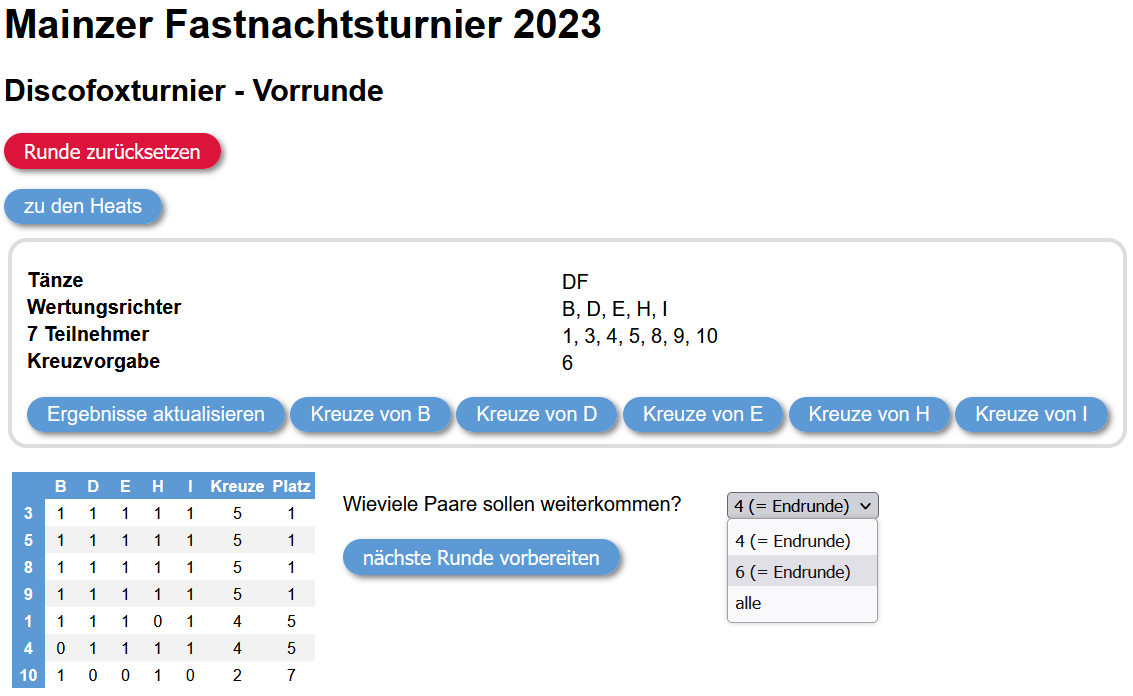
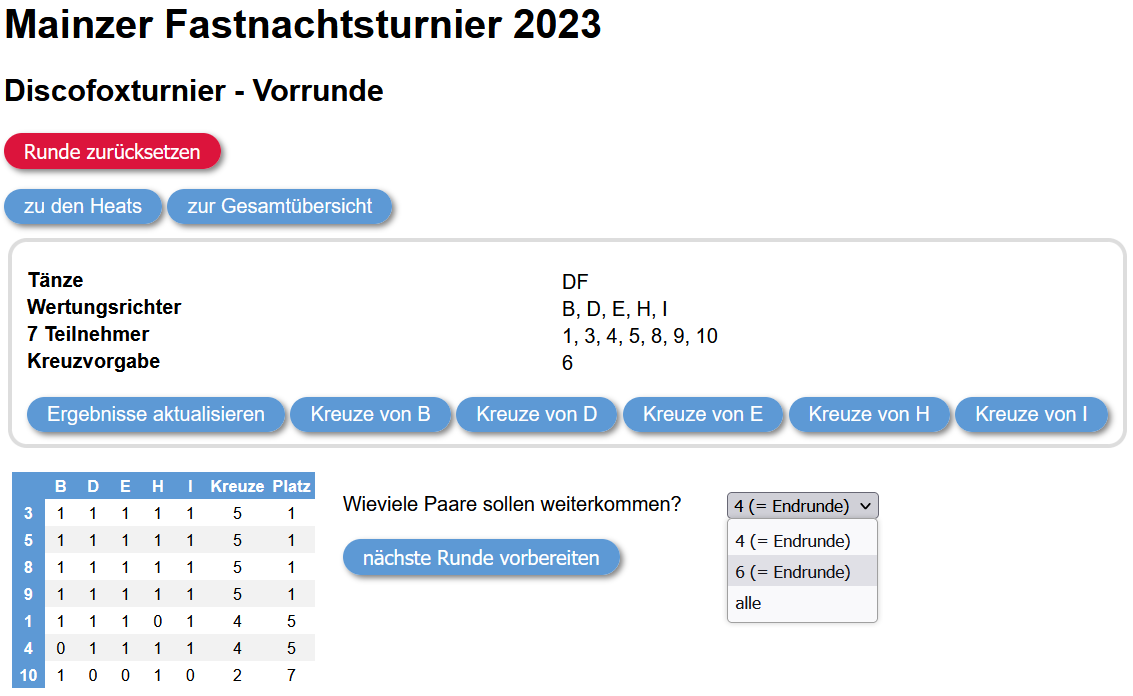
added tournament desk backlinks to round views

Changed region(s): [[0.1236, 0.2716, 0.3707, 0.3319]]

diff --git a/main/pydanceweb/templates/pydanceweb/preliminary_round.html b/main/pydanceweb/templates/pydanceweb/preliminary_round.html
@@ -5,6 +5,7 @@
 {% include "pydanceweb/reset_round.html" %}
 <div class="row">
   <a href="{% url 'handle_heats' dance_round.section_id dance_round.id %}" class="button">zu den Heats</a>
+  <a href="{% url 'show_tournament_desk_index' %}" class="button">zur Gesamtübersicht</a>
 </div>
 {% endif %}
 {% endblock %}

diff --git a/main/pydanceweb/templates/pydanceweb/final_round.html b/main/pydanceweb/templates/pydanceweb/final_round.html
@@ -4,6 +4,7 @@
 {% if dance_round.is_running %}
 {% include "pydanceweb/reset_round.html" %}
 {% endif %}
+<a href="{% url 'show_tournament_desk_index' %}" class="button">zur Gesamtübersicht</a>
 {% endblock %}
 
 {% block form_controls %}
